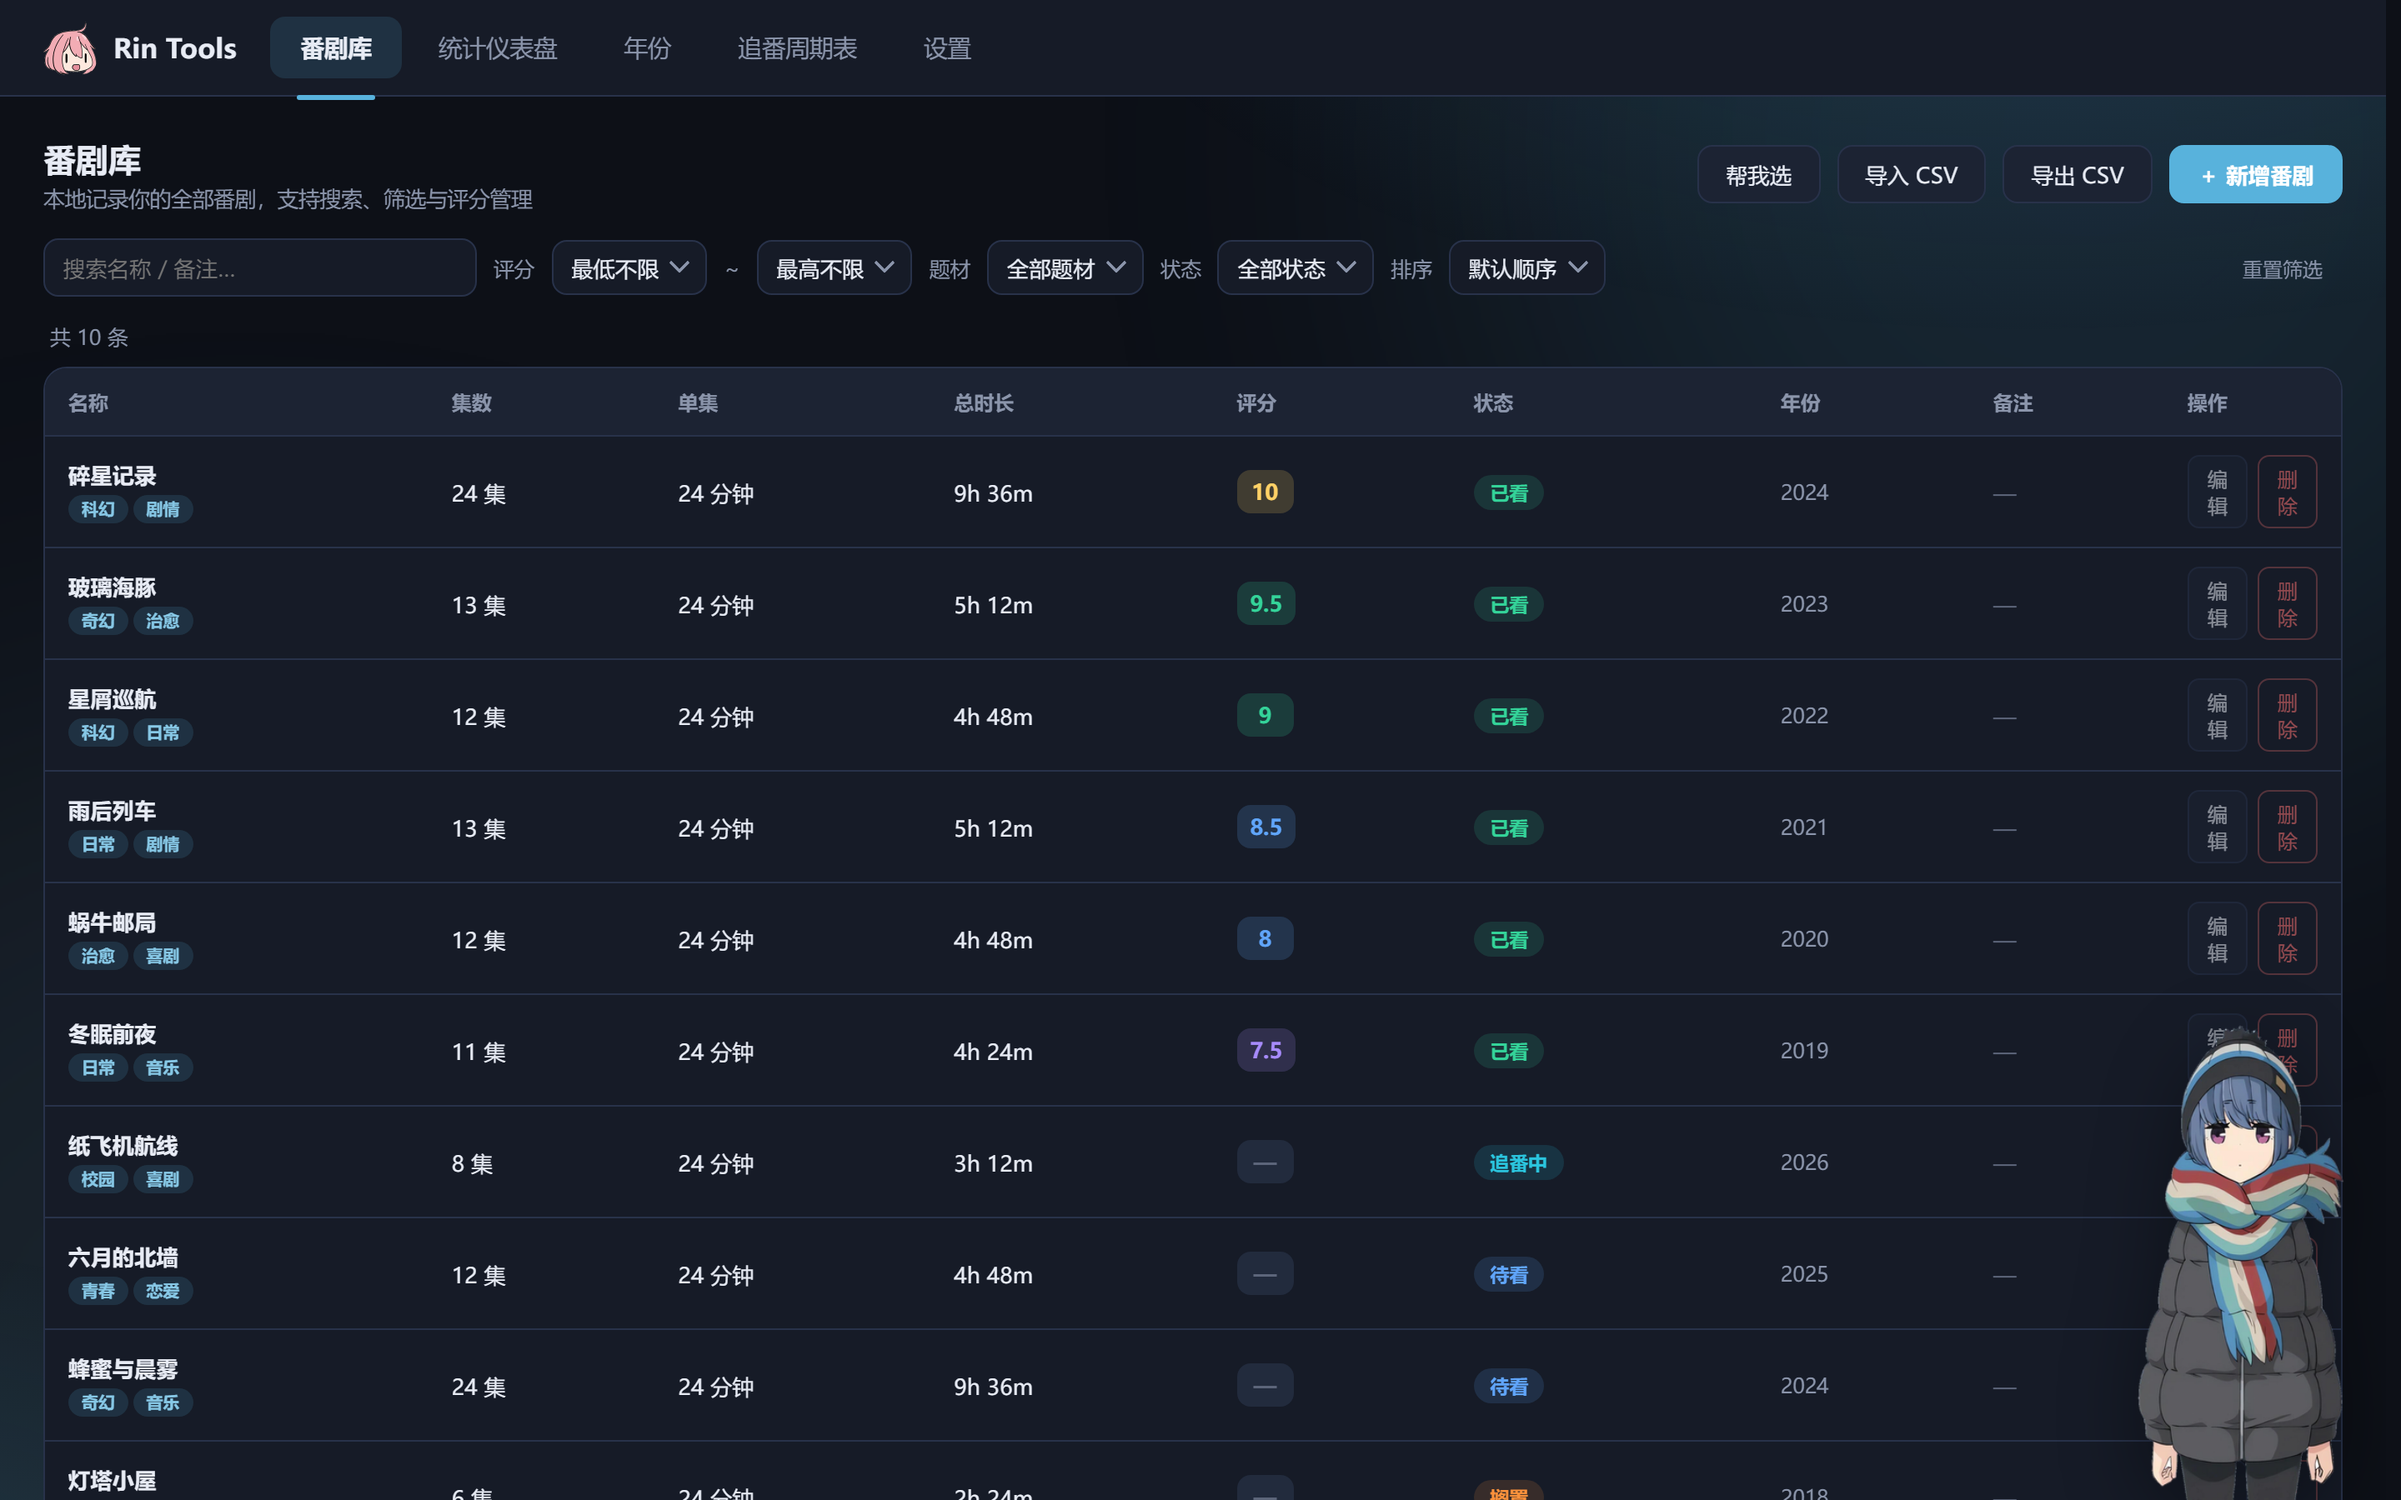
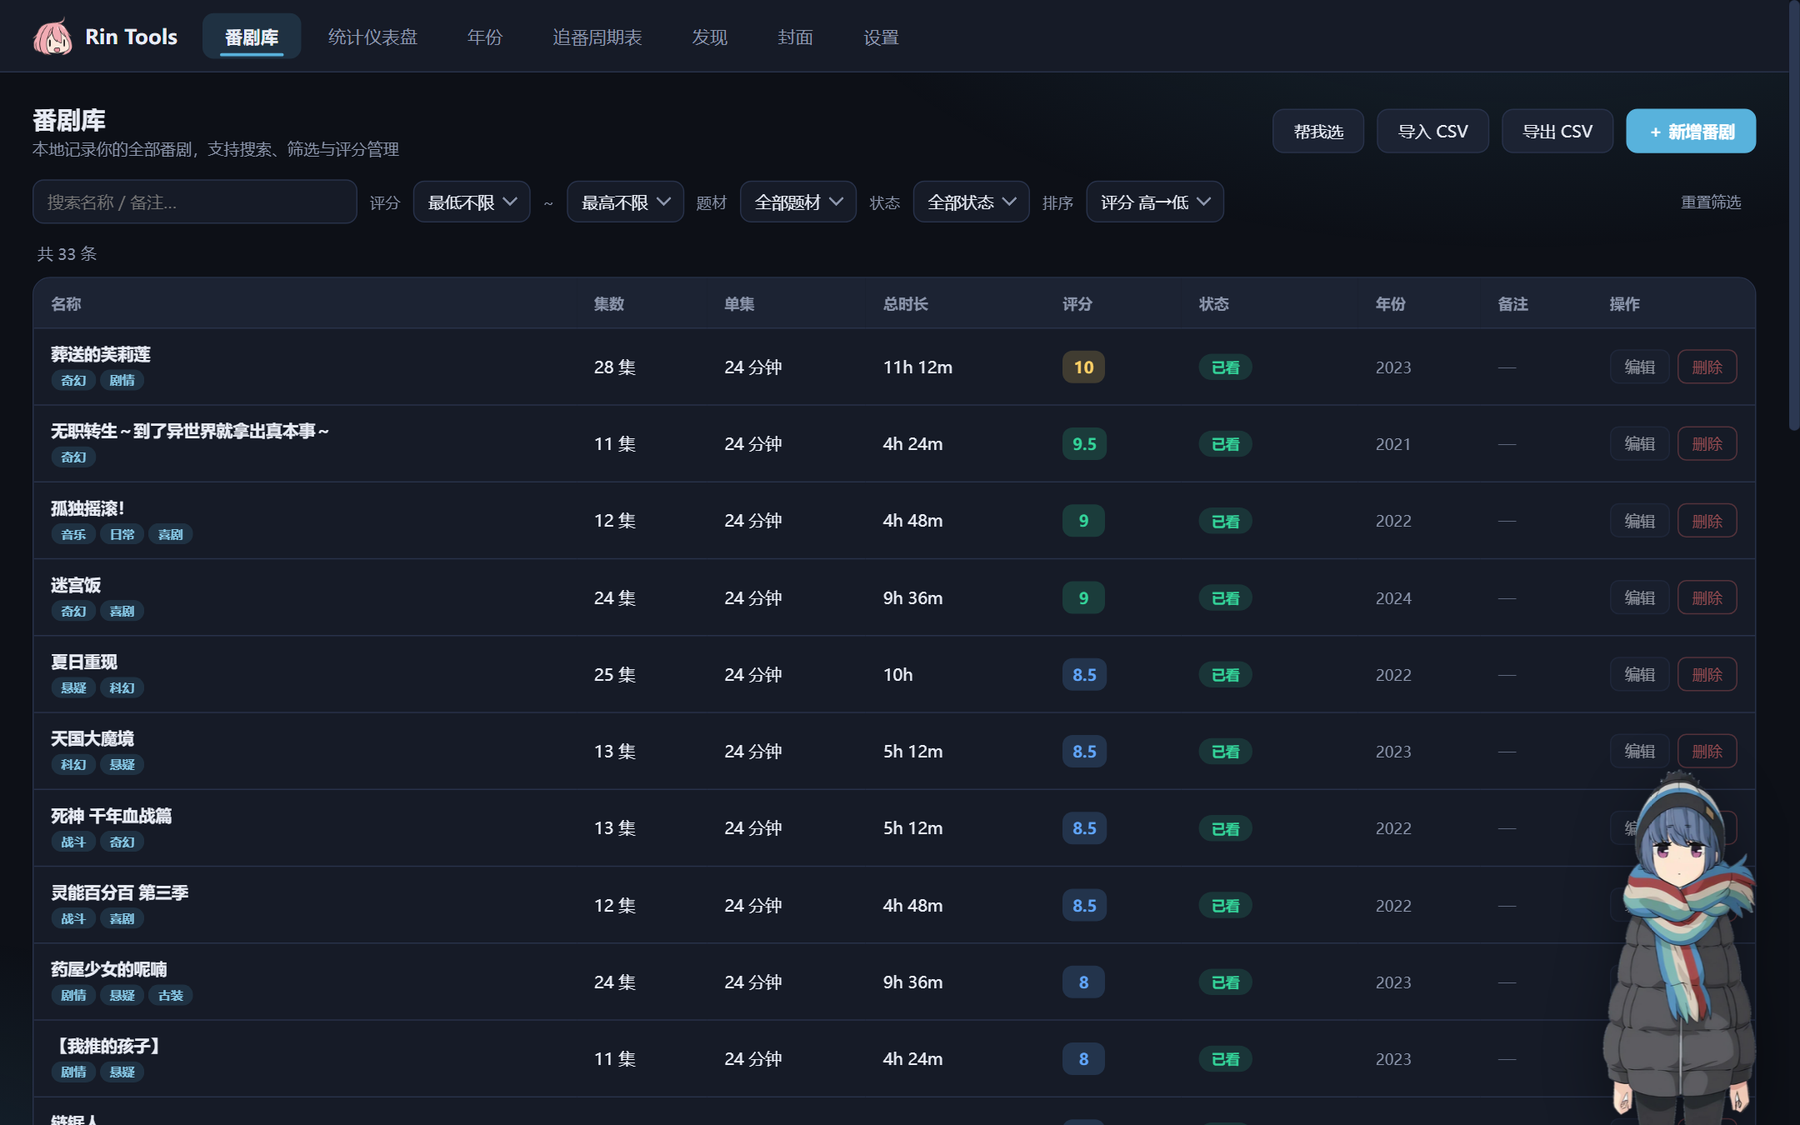
docs: 重写 README，截图换成真实条目示例；更新在线版至 4.0.0

diff --git a/index.html b/index.html
@@ -6678,13 +6678,58 @@ function winSetSize(w, h, preset, immediate){
   return winApi(W => W.isMaximized()
     .then(m => m ? W.unmaximize() : null)
     .catch(() => null)
-    .then(() => W.setSize({ width: ww, height: hh })));
+    .then(() => W.setSize({ width: ww, height: hh })))
+    .then(function(r){ rinFrameGuard(); return r; });
 }
 function winSetMax(){
   winMarkBusy(1500);
   
   winMemoWrite("max", 0, 0);
-  return winApi(W => W.maximize());
+  return winApi(W => W.maximize()).then(function(r){ rinFrameGuard(); return r; });
+}
+
+
+
+
+
+
+var RIN_GUARD_T = null;
+var RIN_T0 = Date.now();          
+var RIN_BOOT_QUIET = true;        
+function rinGuardRoot(){
+  try{
+    if(typeof rinStoProgRoot === "function"){
+      const r = rinStoProgRoot();
+      if(r) return r;
+    }
+  }catch(e){}
+  
+  let p = "";
+  try{ p = String(window.NL_PATH || ""); }catch(e){ p = ""; }
+  if(!p) return "";
+  p = p.split("\\").join("/");
+  if(p.length > 1 && p.slice(-1) === "/") p = p.slice(0, -1);
+  if(p.slice(-6).toLowerCase() === "/shell") p = p.slice(0, -6);
+  return p;
+}
+function rinFrameGuard(){
+  if(!winIsShell()) return;
+  
+
+
+
+
+
+  if(RIN_BOOT_QUIET && Date.now() - RIN_T0 < 8000) return;
+  RIN_BOOT_QUIET = false;
+  if(typeof Neutralino === "undefined" || !Neutralino.os || typeof Neutralino.os.execCommand !== "function") return;
+  const root = rinGuardRoot();
+  if(!root) return;
+  
+  clearTimeout(RIN_GUARD_T);
+  RIN_GUARD_T = setTimeout(function(){
+    try{ Neutralino.os.execCommand('"' + root + '/Rin.exe" --guard'); }catch(e){}
+  }, 260);
 }
 
 
@@ -6866,6 +6911,8 @@ function winWantSize(){
 function winBootDone(){
   if(window.__rinWinReady) return;
   window.__rinWinReady = true;
+  
+  setTimeout(function(){ RIN_BOOT_QUIET = false; }, 5000);
   try{ document.dispatchEvent(new CustomEvent("rinWinReady")); }catch(e){}
 }
 function winBootRestore(){

diff --git a/README.md b/README.md
@@ -1,50 +1,75 @@
 # Rin Tools
 
-一个以单 HTML 文件为本体的番剧观看记录与统计工具。无框架、无构建步骤、无遥测；所有数据默认保存在本地。
+记录看过的动画，再把它折算成时间、评分与年份的统计。
+
+**一个 HTML 文件就是全部。** 不安装、不注册、不联网也能开着用；所有记录只留在本机。
+
+---
+
+## 界面
 
 | 番剧库 | 统计仪表盘 |
-| --- | --- |
+| :---: | :---: |
 | ![番剧库](docs/screenshots/library.png) | ![统计仪表盘](docs/screenshots/stats.png) |
 
-| 追番周期表 | 设置 |
-| --- | --- |
-| ![追番周期表](docs/screenshots/week.png) | ![设置](docs/screenshots/settings.png) |
+| 追番周期表 | 封面墙 |
+| :---: | :---: |
+| ![追番周期表](docs/screenshots/week.png) | ![封面墙](docs/screenshots/gallery.jpg) |
 
-> 截图中的条目为演示数据。
+> 截图中条目信息取自 Bangumi 公开资料（《葬送的芙莉莲》《孤独摇滚！》《迷宫饭》《夏日重现》等），评分、进度与备注为演示数据。分发版本不含任何个人记录，首次打开是空库。
 
-## 功能
+---
 
-- **番剧库**：条目式管理，支持名称搜索、评分区间、题材与状态筛选、多种排序；重名检测与右键快捷操作。
-- **统计仪表盘**：总时长、平均分、标准差等汇总指标；评分分段统计与分布直方图；分段名称可点击自定义。
-- **追番周期表**：按星期排布正在追的番剧，可直接在格内新建条目、拖拽调整。
-- **年份统计**：按年份与季度回顾观看记录。
-- **数据管理**：CSV 导入导出、JSON 完整备份恢复；桌面版支持 WebDAV 同步（坚果云等）。
-- **主题**：深色 / 亮色 / 跟随系统，主题色可自选或自定义色值。
-- **桌面端附加**：可接入自定义模型接口的本地聊天组件，立绘大小可按百分比调整。
+## 一条记录里有什么
 
-## 下载
+名称、年份、集数、单集时长、评分、状态、题材标签、备注。
 
-前往 [Releases](../../releases) 页面下载最新版本。两种载体共用同一份页面，功能一致，区别仅在运行环境与体积：
+状态分四种：**已看 / 追番中 / 待看 / 搁置**。总时长由「集数 × 单集时长」自动算出，统计页的每一组数字都从这些字段来 —— 真正需要动手填的只有名称、集数与评分，其余都能算出来或事后补。
 
-| 文件 | 载体 | 体积 | 适合 |
-| --- | --- | --- | --- |
-| `RinTools_v20.1.3_win-x64-light.zip` | Windows 桌面版 · 轻量壳 | 约 3 MB | **Windows 日常使用**，免安装 |
-| `RinTools_v20.1.3_web.html` | 网页（单文件） | 约 1.4 MB | 双击用浏览器打开；部署为静态站点 |
+## 统计页能读到什么
+
+- **已看总时长**，并折算成「不眠不休多少天」这类能感知的说法
+- **评分分布**：直方图、标准差、按分数段统计的作品数与占比
+- **年份视图**：按年与季度回顾当年看了什么
+- **状态概览**：四类状态各多少部
+
+## 除了记，还能看
+
+- **追番周期表** —— 正在追的条目按放送日排进一周，格内可直接新建，也能拖拽调整
+- **封面墙** —— 库内封面按最近改动排开，可按评分与题材筛选，支持手动挑选后单独导出
+- **发现页** —— 按季度浏览新番，看中的直接加进库内；不相关的宣传映像与冷门条目可以筛掉
+- **导出** —— CSV 交换、JSON 完整备份与恢复、封面墙图片
+
+## 两种载体
+
+| 文件 | 载体 | 体积 | 说明 |
+| :--- | :--- | :--- | :--- |
+| `RinTools_v4.0.0_win-x64-light.zip` | Windows 桌面版（轻量壳） | 约 2.6 MB | 解压即用，免安装，可放在任意目录 |
+| `RinTools_v4.0.0_web.html` | 网页（单文件） | 约 1.7 MB | 双击用浏览器打开，或部署为静态站点 |
+
+两者是同一套页面，功能一致，差别只在运行环境：桌面版能记忆窗口尺寸、接入本地模型接口，数据分区也与浏览器相互独立。
+
+下载在 [Releases](../../releases)。
 
 ## 快速开始
 
-**网页版**：双击 HTML 文件（或部署到任意静态托管），浏览器打开即可使用。
+**网页版**：双击 HTML 文件即可。也可以放到任意静态托管上，得到一个能跨设备打开的网址 —— 但记录仍只存在当前浏览器里。
 
-**Windows 桌面版**：解压 zip，双击 `Rin Tools.exe`。免安装，可放在任意目录。
+**Windows 桌面版**：解压后双击目录里的 `Rin.exe`。
 
-> 桌面版的数据分区与程序文件名绑定，请勿重命名 exe，否则已存数据将无法读取。
+> 请从解压目录的 `Rin.exe` 启动，不要直接双击 `shell` 子目录里的程序 —— 那会绕开单实例检查与数据目录自检。
 
 ## 数据与隐私
 
-- 分发版本**不含任何个人数据**，首次打开为空白库。
-- 所有数据保存在本地（浏览器本地存储或桌面版程序存储区），不上传至任何服务器。
-- 更换设备时，使用工具内的「备份全部数据（JSON）」导出，再在新设备导入即可；桌面版另支持 WebDAV 同步。
-- 桌面版与网页版、以及两种桌面壳之间的本地存储相互独立。
+- 分发版本**不含任何个人记录**，首次打开是空库。
+- 记录保存在本地：网页版用浏览器的本地存储，桌面版用程序目录旁的独立数据区。不上传、不联网同步到任何服务器。
+- 换设备时，在工具内「备份全部数据」导出 JSON，到新设备导入即可；桌面版另支持 WebDAV 同步。
+- 网页版、桌面版、以及不同桌面壳之间的本地存储相互独立，互不影响。
+- 桌面版的数据区与程序文件名绑定，**不要重命名 exe**，否则已存记录读不出来。
+
+## 与 Bangumi 的关系
+
+条目信息可以手动填，也可以关联 Bangumi 自动补全年份、集数、封面与简介；收藏状态与评分可以双向核对。这部分需要联网，且为可选项 —— 不关联也能正常记录。
 
 ## 更新日志
 
@@ -52,4 +77,4 @@
 
 ## 许可
 
-自用工具，按原样提供（AS IS），仅供个人使用，禁止用于商业用途。
+自用工具，按原样提供（AS IS），仅供个人使用，禁止用于商业目的。
